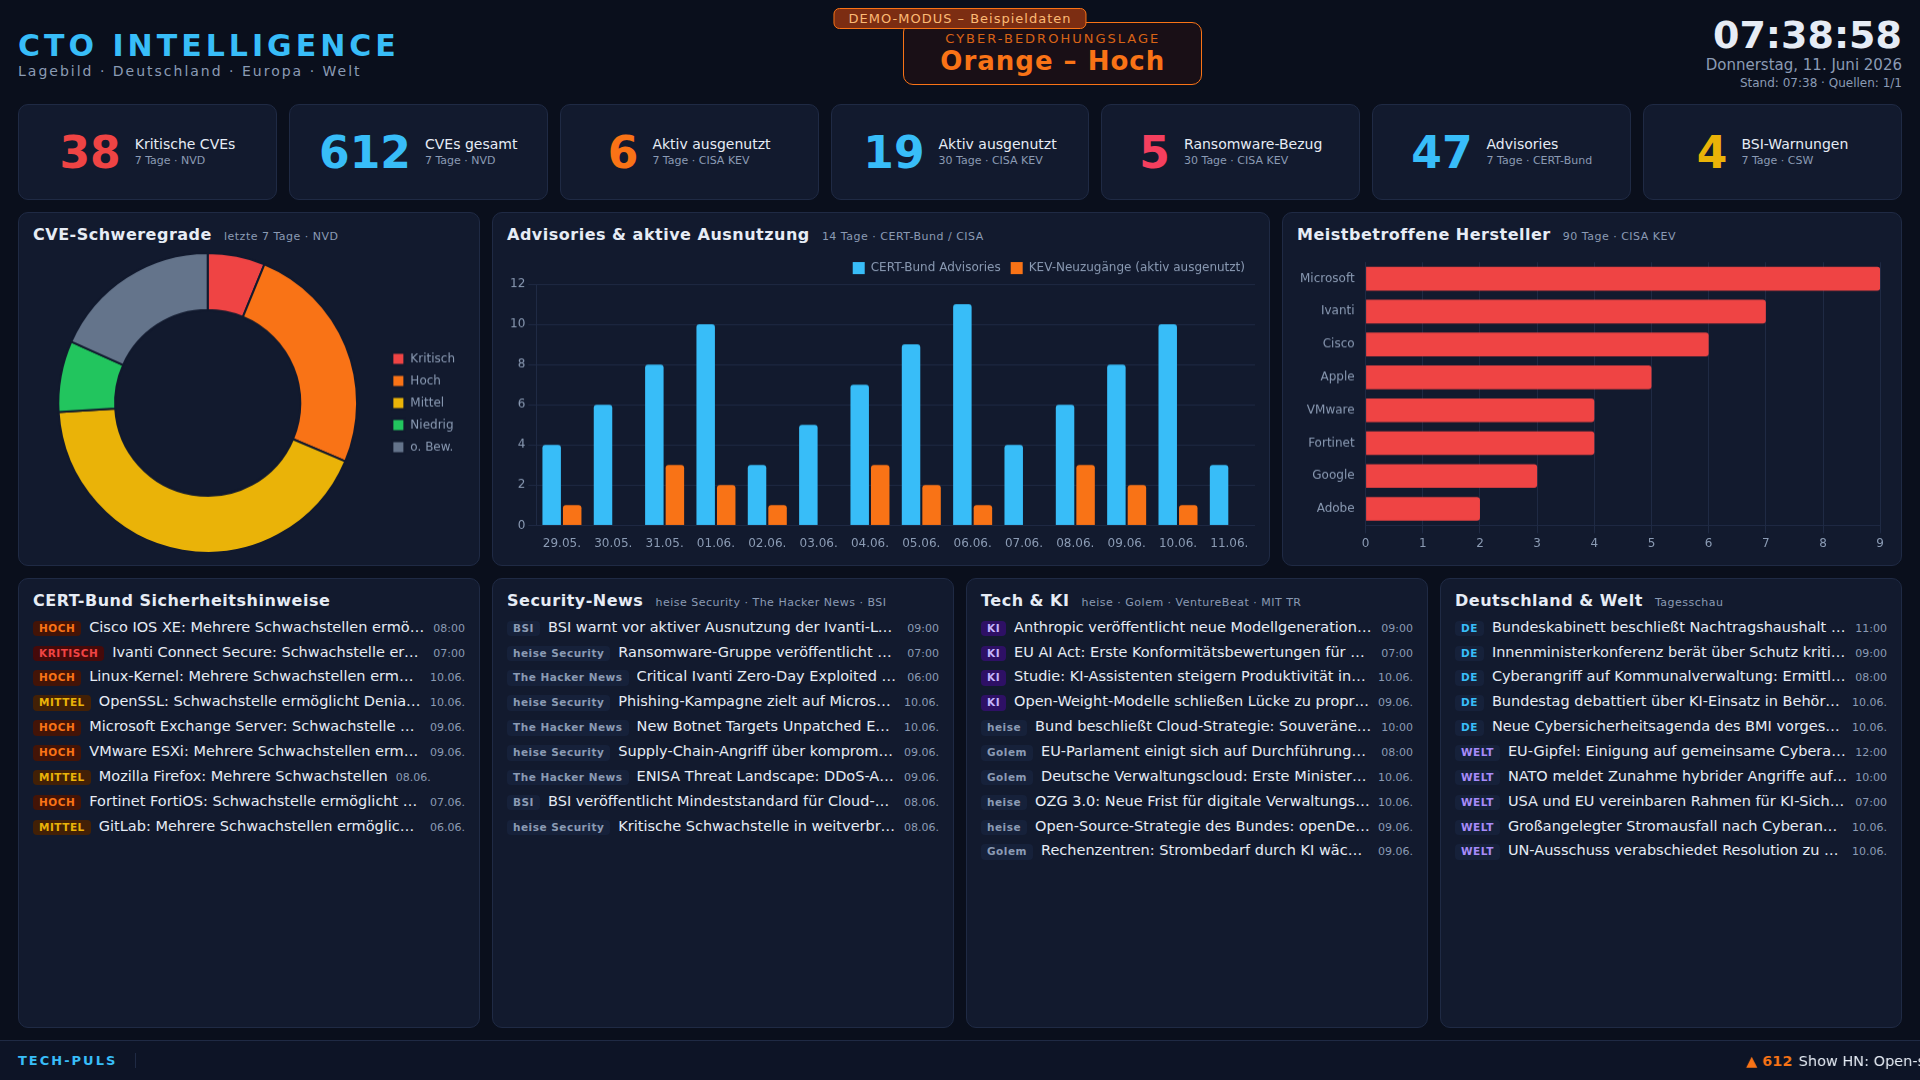
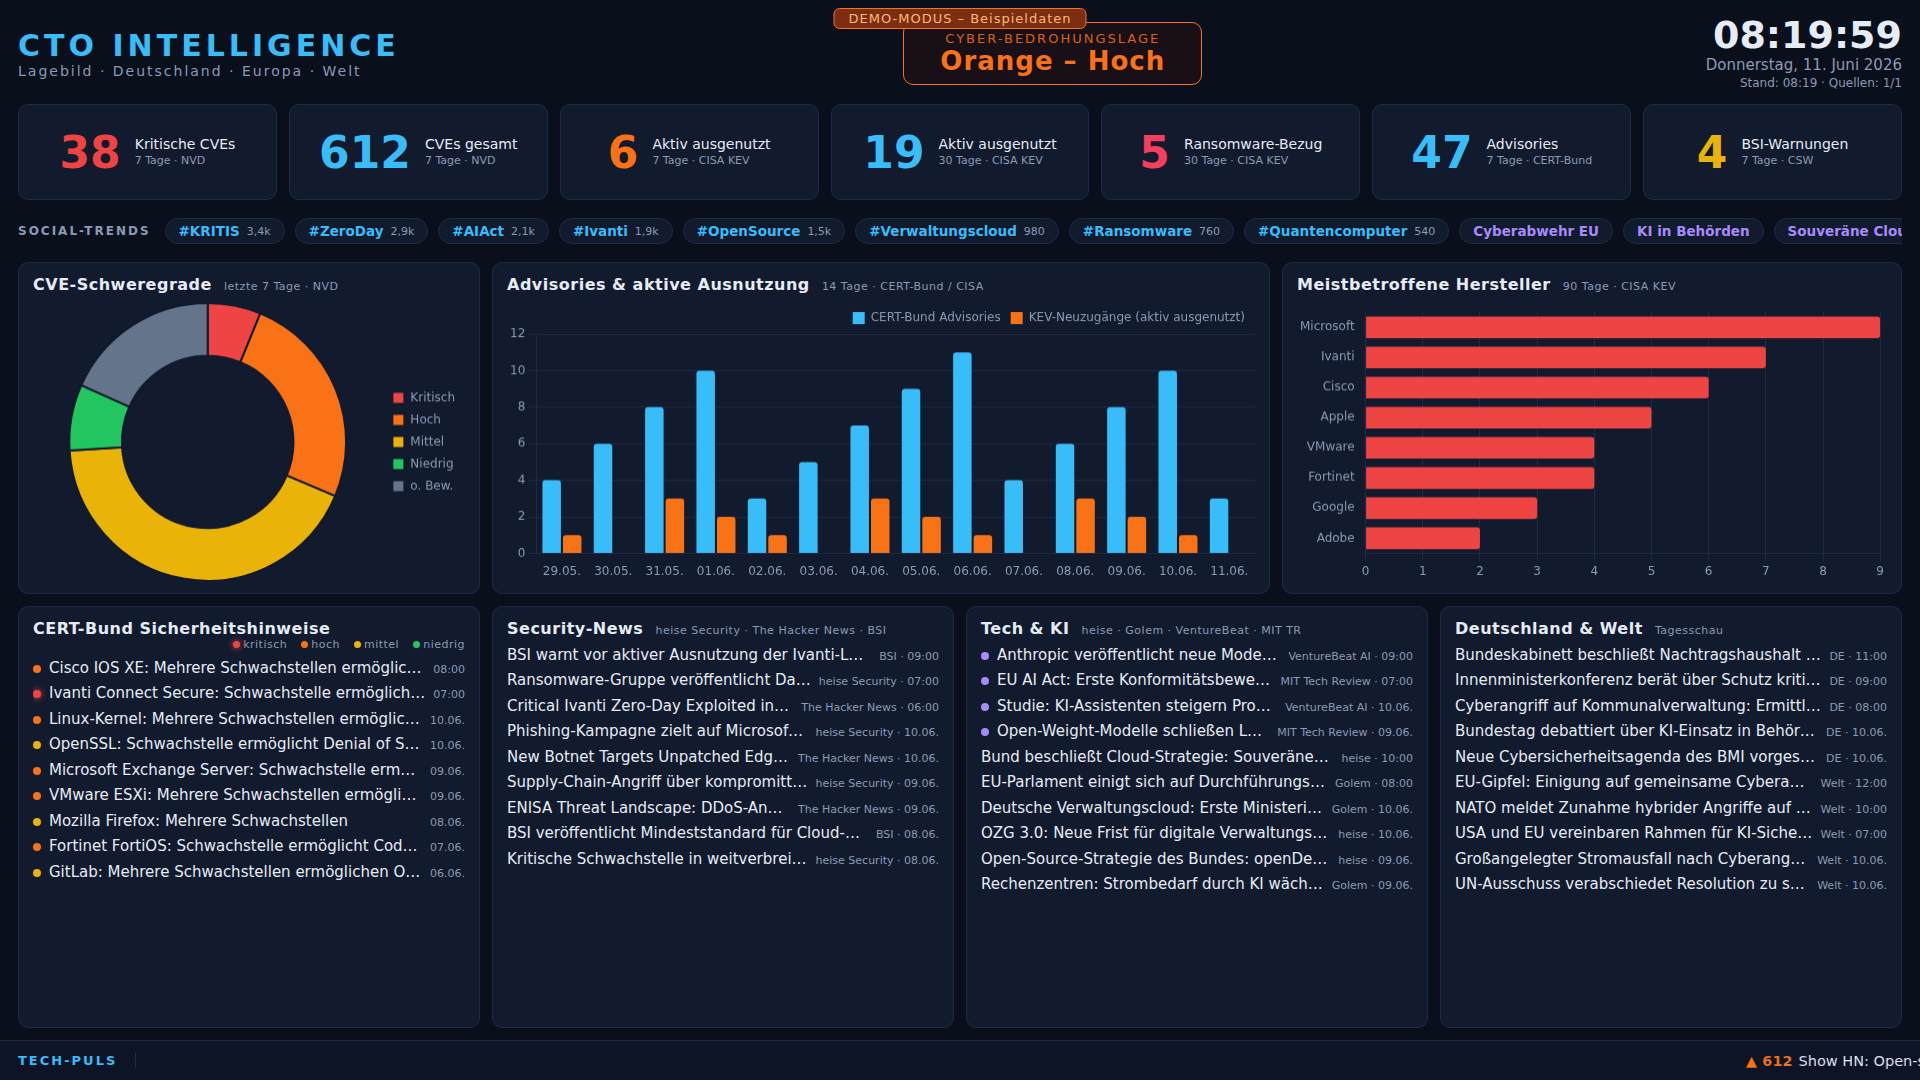
Headlines priorisieren, Risiko-Bullets, Social-Media-Trends
- News-Listen: Headline im Vordergrund, Quelle/Zeit als dezente Meta-Info
- CERT-Bund: Risikoklasse als farbiger Bullet statt [Klammer]-Badge,
  Legende im Panel-Header
- Neue Social-Trends-Leiste: Mastodon Trending Tags (mit Nutzungszahlen)
  und Bluesky Trending Topics, beide ohne API-Key

https://claude.ai/code/session_01RQCW42bAu5rzETtTf6RSuo

diff --git a/public/app.js b/public/app.js
@@ -52,8 +52,14 @@ function splitSeverity(title) {
   return { severity: null, text: title };
 }
 
-function badge(text, cls) {
-  return `<span class="badge ${cls}">${text}</span>`;
+function meta(parts) {
+  const text = parts.filter(Boolean).join(' · ');
+  return `<span class="item-meta">${text}</span>`;
+}
+
+function fmtCount(n) {
+  if (n === null || n === undefined) return '';
+  return n >= 1000 ? (n / 1000).toLocaleString('de-DE', { maximumFractionDigits: 1 }) + 'k' : String(n);
 }
 
 function renderList(id, items, render) {
@@ -202,29 +208,37 @@ function render(data) {
 
   renderList('list-certbund', data.lists.certBund, (it) => {
     const { severity, text } = splitSeverity(it.title);
-    const sevBadge = severity ? badge(severity, `badge-${severity}`) : '';
-    return `<li>${sevBadge}<span class="item-title">${esc(text)}</span><span class="item-time">${fmtTime(it.date)}</span></li>`;
+    const dot = `<span class="dot ${severity ? `dot-${severity}` : ''}" title="${severity || ''}"></span>`;
+    return `<li>${dot}<span class="item-title">${esc(text)}</span>${meta([fmtTime(it.date)])}</li>`;
   });
 
   renderList('list-secnews', data.lists.securityNews, (it) =>
-    `<li>${badge(esc(it.source), 'badge-src')}<span class="item-title">${esc(it.title)}</span><span class="item-time">${fmtTime(it.date)}</span></li>`
+    `<li><span class="item-title">${esc(it.title)}</span>${meta([esc(it.source), fmtTime(it.date)])}</li>`
   );
 
   const tech = [
-    ...(data.lists.aiNews || []).slice(0, 4).map((it) => ({ ...it, tag: 'KI', cls: 'badge-ki' })),
-    ...(data.lists.techNews || []).slice(0, 6).map((it) => ({ ...it, tag: it.source, cls: 'badge-src' })),
+    ...(data.lists.aiNews || []).slice(0, 4).map((it) => ({ ...it, ki: true })),
+    ...(data.lists.techNews || []).slice(0, 6),
   ];
   renderList('list-tech', tech, (it) =>
-    `<li>${badge(esc(it.tag), it.cls)}<span class="item-title">${esc(it.title)}</span><span class="item-time">${fmtTime(it.date)}</span></li>`
+    `<li>${it.ki ? '<span class="dot dot-ki" title="KI"></span>' : ''}<span class="item-title">${esc(it.title)}</span>${meta([esc(it.source), fmtTime(it.date)])}</li>`
   );
 
   const politics = [
-    ...(data.lists.germany || []).slice(0, 5).map((it) => ({ ...it, tag: 'DE', cls: 'badge-de' })),
-    ...(data.lists.world || []).slice(0, 5).map((it) => ({ ...it, tag: 'Welt', cls: 'badge-welt' })),
+    ...(data.lists.germany || []).slice(0, 5).map((it) => ({ ...it, region: 'DE' })),
+    ...(data.lists.world || []).slice(0, 5).map((it) => ({ ...it, region: 'Welt' })),
   ];
   renderList('list-politics', politics, (it) =>
-    `<li>${badge(it.tag, it.cls)}<span class="item-title">${esc(it.title)}</span><span class="item-time">${fmtTime(it.date)}</span></li>`
+    `<li><span class="item-title">${esc(it.title)}</span>${meta([it.region, fmtTime(it.date)])}</li>`
   );
+
+  const chips = (data.lists.socialTrends || []).map((t) => {
+    const count = t.count ? `<span class="chip-count">${fmtCount(t.count)}</span>` : '';
+    const prefix = t.source === 'Mastodon' ? '#' : '';
+    return `<span class="chip ${t.source === 'Bluesky' ? 'chip-bsky' : ''}" title="${esc(t.source)}"><span class="chip-tag">${prefix}${esc(t.tag)}</span>${count}</span>`;
+  });
+  el('trend-chips').innerHTML =
+    chips.join('') || '<span class="empty-note">Quelle derzeit nicht erreichbar</span>';
 
   const tickerItems = [
     ...(data.lists.hackerNews || []).map(

diff --git a/public/style.css b/public/style.css
@@ -183,39 +183,84 @@ body {
   display: flex;
   align-items: baseline;
   gap: 8px;
-  font-size: 14.5px;
+  font-size: 15px;
   line-height: 1.3;
   white-space: nowrap;
   overflow: hidden;
-  text-overflow: ellipsis;
   flex: 0 0 auto;
 }
 
+/* Headline im Vordergrund, Quelle/Zeit als dezente Meta-Info am Zeilenende */
 .newslist .item-title {
+  flex: 0 1 auto;
   overflow: hidden;
   text-overflow: ellipsis;
   color: var(--text);
 }
-
-.badge {
+.item-meta {
   flex: 0 0 auto;
-  font-size: 10.5px;
-  font-weight: 700;
-  border-radius: 4px;
-  padding: 1px 6px;
-  letter-spacing: 0.5px;
-  text-transform: uppercase;
+  margin-left: auto;
+  font-size: 11px;
+  color: var(--text-dim);
+  font-variant-numeric: tabular-nums;
 }
-.badge-kritisch { background: #450a0a; color: var(--critical); }
-.badge-hoch     { background: #431407; color: var(--high); }
-.badge-mittel   { background: #422006; color: var(--medium); }
-.badge-niedrig  { background: #052e16; color: var(--low); }
-.badge-src      { background: #16213a; color: var(--text-dim); text-transform: none; }
-.badge-de       { background: #16213a; color: var(--accent); }
-.badge-welt     { background: #16213a; color: #a78bfa; }
-.badge-ki       { background: #2e1065; color: #c4b5fd; }
 
-.item-time { flex: 0 0 auto; font-size: 11px; color: var(--text-dim); font-variant-numeric: tabular-nums; }
+/* Risikoklassen / Themen als kleine Bullets */
+.dot {
+  flex: 0 0 auto;
+  display: inline-block;
+  width: 8px;
+  height: 8px;
+  border-radius: 50%;
+  background: var(--none);
+  align-self: center;
+}
+.dot-kritisch { background: var(--critical); box-shadow: 0 0 6px var(--critical); }
+.dot-hoch     { background: var(--high); }
+.dot-mittel   { background: var(--medium); }
+.dot-niedrig  { background: var(--low); }
+.dot-ki       { background: #a78bfa; }
+
+.sev-legend { float: right; }
+.sev-legend .dot { width: 7px; height: 7px; margin: 0 3px 0 10px; vertical-align: middle; }
+
+/* ── Social-Media-Trends ─────────────────────────────────── */
+.trends {
+  flex: 0 0 auto;
+  height: 38px;
+  display: flex;
+  align-items: center;
+  gap: 14px;
+  overflow: hidden;
+}
+.trends-label {
+  flex: 0 0 auto;
+  font-size: 12px;
+  font-weight: 700;
+  letter-spacing: 2px;
+  color: var(--text-dim);
+}
+.trend-chips {
+  flex: 1 1 auto;
+  display: flex;
+  gap: 10px;
+  overflow: hidden;
+  white-space: nowrap;
+}
+.chip {
+  flex: 0 0 auto;
+  display: inline-flex;
+  align-items: center;
+  gap: 7px;
+  background: var(--panel);
+  border: 1px solid var(--panel-border);
+  border-radius: 999px;
+  padding: 4px 13px;
+  font-size: 13.5px;
+}
+.chip-tag { color: var(--accent); font-weight: 600; }
+.chip-bsky .chip-tag { color: #a78bfa; }
+.chip-count { font-size: 11px; color: var(--text-dim); font-variant-numeric: tabular-nums; }
 
 .empty-note { color: var(--text-dim); font-size: 13px; font-style: italic; }
 

diff --git a/src/aggregator.js b/src/aggregator.js
@@ -6,6 +6,8 @@ const {
   fetchNvdRecent,
   fetchHackerNews,
   fetchTagesschau,
+  fetchMastodonTrends,
+  fetchBlueskyTrends,
 } = require('./fetchers');
 
 const MIN = 60 * 1000;
@@ -102,6 +104,18 @@ const SOURCES = [
     fetch: () => fetchTagesschau('inland', 8),
   },
   {
+    id: 'mastodonTrends',
+    name: 'Mastodon Trending Tags',
+    ttl: 15 * MIN,
+    fetch: () => fetchMastodonTrends(10),
+  },
+  {
+    id: 'blueskyTrends',
+    name: 'Bluesky Trending Topics',
+    ttl: 15 * MIN,
+    fetch: () => fetchBlueskyTrends(8),
+  },
+  {
     id: 'tagesschauAusland',
     name: 'Tagesschau Ausland',
     ttl: 15 * MIN,
@@ -193,6 +207,16 @@ function mergeNews(lists, limit) {
     .slice(0, limit);
 }
 
+/** Mastodon (mit Nutzungszahlen) zuerst, Bluesky-Themen ohne Duplikate dahinter. */
+function mergeTrends(mastodon, bluesky, limit = 14) {
+  const seen = new Set(mastodon.map((t) => t.tag.toLowerCase()));
+  const merged = [
+    ...[...mastodon].sort((a, b) => (b.count || 0) - (a.count || 0)),
+    ...bluesky.filter((t) => !seen.has(t.tag.toLowerCase())),
+  ];
+  return merged.slice(0, limit);
+}
+
 async function buildDashboard() {
   const results = {};
   await Promise.all(
@@ -244,6 +268,7 @@ async function buildDashboard() {
       hackerNews: get('hn'),
       germany: get('tagesschauInland'),
       world: get('tagesschauAusland'),
+      socialTrends: mergeTrends(get('mastodonTrends'), get('blueskyTrends')),
     },
     sources: SOURCES.map((s) => ({
       id: s.id,

diff --git a/src/fetchers.js b/src/fetchers.js
@@ -136,4 +136,34 @@ async function fetchTagesschau(ressort, limit = 8) {
     }));
 }
 
-module.exports = { fetchFeed, fetchKev, fetchNvdRecent, fetchHackerNews, fetchTagesschau };
+/** Trending Hashtags im Fediverse (öffentliche API, kein Key nötig) */
+async function fetchMastodonTrends(limit = 10) {
+  const data = await fetchJson('https://mastodon.social/api/v1/trends/tags?limit=' + limit);
+  return (data || []).map((t) => ({
+    tag: t.name,
+    count: (t.history || []).slice(0, 2).reduce((sum, h) => sum + Number(h.uses || 0), 0),
+    source: 'Mastodon',
+  }));
+}
+
+/** Trending Topics auf Bluesky (öffentliche API, kein Key nötig) */
+async function fetchBlueskyTrends(limit = 10) {
+  const data = await fetchJson(
+    'https://public.api.bsky.app/xrpc/app.bsky.unspecced.getTrendingTopics'
+  );
+  return (data.topics || []).slice(0, limit).map((t) => ({
+    tag: t.displayName || t.topic,
+    count: null,
+    source: 'Bluesky',
+  }));
+}
+
+module.exports = {
+  fetchFeed,
+  fetchKev,
+  fetchNvdRecent,
+  fetchHackerNews,
+  fetchTagesschau,
+  fetchMastodonTrends,
+  fetchBlueskyTrends,
+};

diff --git a/src/demo-data.js b/src/demo-data.js
@@ -151,6 +151,20 @@ function buildDemoDashboard() {
       hackerNews,
       germany,
       world,
+      socialTrends: [
+        { tag: 'KRITIS', count: 3400, source: 'Mastodon' },
+        { tag: 'ZeroDay', count: 2850, source: 'Mastodon' },
+        { tag: 'AIAct', count: 2100, source: 'Mastodon' },
+        { tag: 'Ivanti', count: 1900, source: 'Mastodon' },
+        { tag: 'OpenSource', count: 1450, source: 'Mastodon' },
+        { tag: 'Verwaltungscloud', count: 980, source: 'Mastodon' },
+        { tag: 'Ransomware', count: 760, source: 'Mastodon' },
+        { tag: 'Quantencomputer', count: 540, source: 'Mastodon' },
+        { tag: 'Cyberabwehr EU', count: null, source: 'Bluesky' },
+        { tag: 'KI in Behörden', count: null, source: 'Bluesky' },
+        { tag: 'Souveräne Cloud', count: null, source: 'Bluesky' },
+        { tag: 'Post-Quantum', count: null, source: 'Bluesky' },
+      ],
     },
     sources: [
       { id: 'demo', name: 'Demo-Modus – alle Daten sind Beispieldaten', ok: true, stale: false, fetchedAt: new Date().toISOString(), error: null },

diff --git a/public/index.html b/public/index.html
@@ -35,6 +35,11 @@
     <div class="kpi kpi-bsi"><div class="kpi-value" id="kpi-bsi">–</div><div class="kpi-label">BSI-Warnungen<span>7 Tage · CSW</span></div></div>
   </section>
 
+  <section class="trends">
+    <div class="trends-label">SOCIAL-TRENDS</div>
+    <div id="trend-chips" class="trend-chips"></div>
+  </section>
+
   <main class="grid">
     <section class="panel chart-panel area-severity">
       <h2>CVE-Schweregrade <span class="panel-sub">letzte 7 Tage · NVD</span></h2>
@@ -52,7 +57,9 @@
     </section>
 
     <section class="panel area-certbund">
-      <h2>CERT-Bund Sicherheitshinweise</h2>
+      <h2>CERT-Bund Sicherheitshinweise
+        <span class="panel-sub sev-legend"><i class="dot dot-kritisch"></i>kritisch <i class="dot dot-hoch"></i>hoch <i class="dot dot-mittel"></i>mittel <i class="dot dot-niedrig"></i>niedrig</span>
+      </h2>
       <ul id="list-certbund" class="newslist"></ul>
     </section>
 
